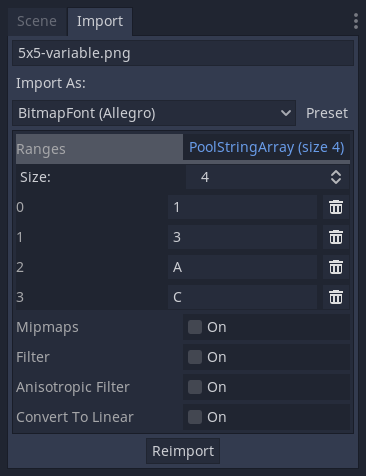
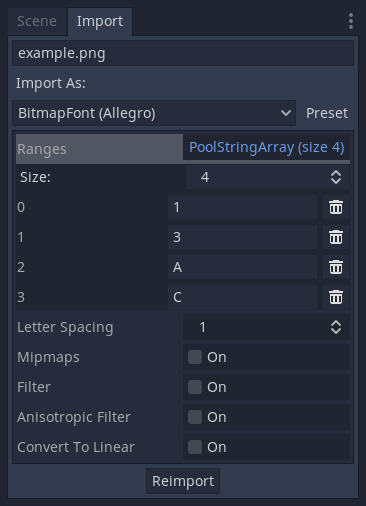
add letter spacing option

diff --git a/README.md b/README.md
@@ -27,9 +27,6 @@ Now, let's look at how the importer interprets it. Here's that image scaled-up:
   * You'll probably want to arrange the glyphs in their Unicode ordering; you'll see why below.
 * Glyphs can vary in width, but must be the **same height**.
 * Every row of glyphs must be separated by a horizontal line with the delimiter colour.
-* Glyphs are added without letter spacing, so if you want that, you'll need to add it to the end of each character.
-  * You'll notice we've done that above.
-  * I'm aware that `BitmapFont` provides this facility, but as it stands, the importer just replicates Allegro's functionality. More bells and whistles of this variety may be added in future.
 * It's fine to put as much delimiter colour padding as you like between glyphs on the same row.
 
 Even with all of the above, the importer still doesn't know which glyphs correspond to which characters. This leads us onto...
@@ -43,6 +40,14 @@ Then, select 'BitmapFont (Allegro)' from the dropdown:
 ![UI](./.images/ui.png)
 
 Each pair of strings in 'Ranges' defines an **inclusive** range of Unicode characters to import from the image. So, in the above screenshot, `123` and `ABC` are imported - meaning these settings would correctly import the font we used as an example.
+
+---
+
+'Letter Spacing' is useful for padding out characters or pushing them together (if set to a negative value). The latter is especially useful for reducing the spacing on fonts which have an outline:
+
+![Letter spacing demonstration with outline font](./.images/spacing.png)
+
+---
 
 The other options (from 'Mipmaps' down) correspond to the [texture creation flags](https://docs.godotengine.org/en/3.2/classes/class_texture.html#enum-texture-flags).
 
